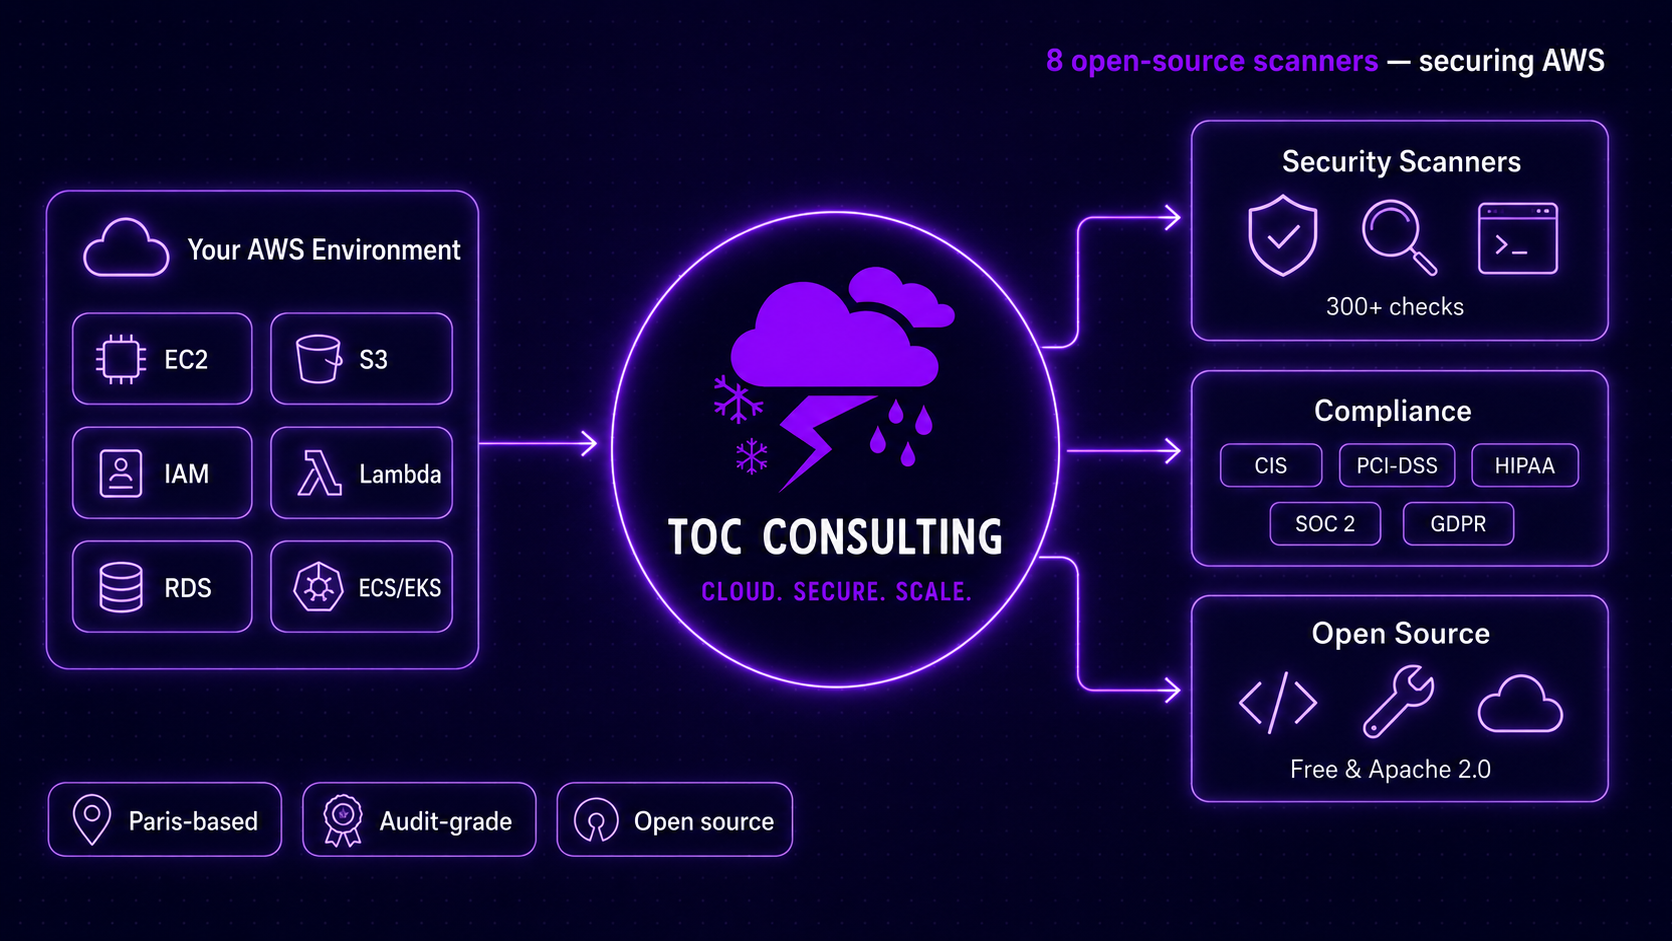
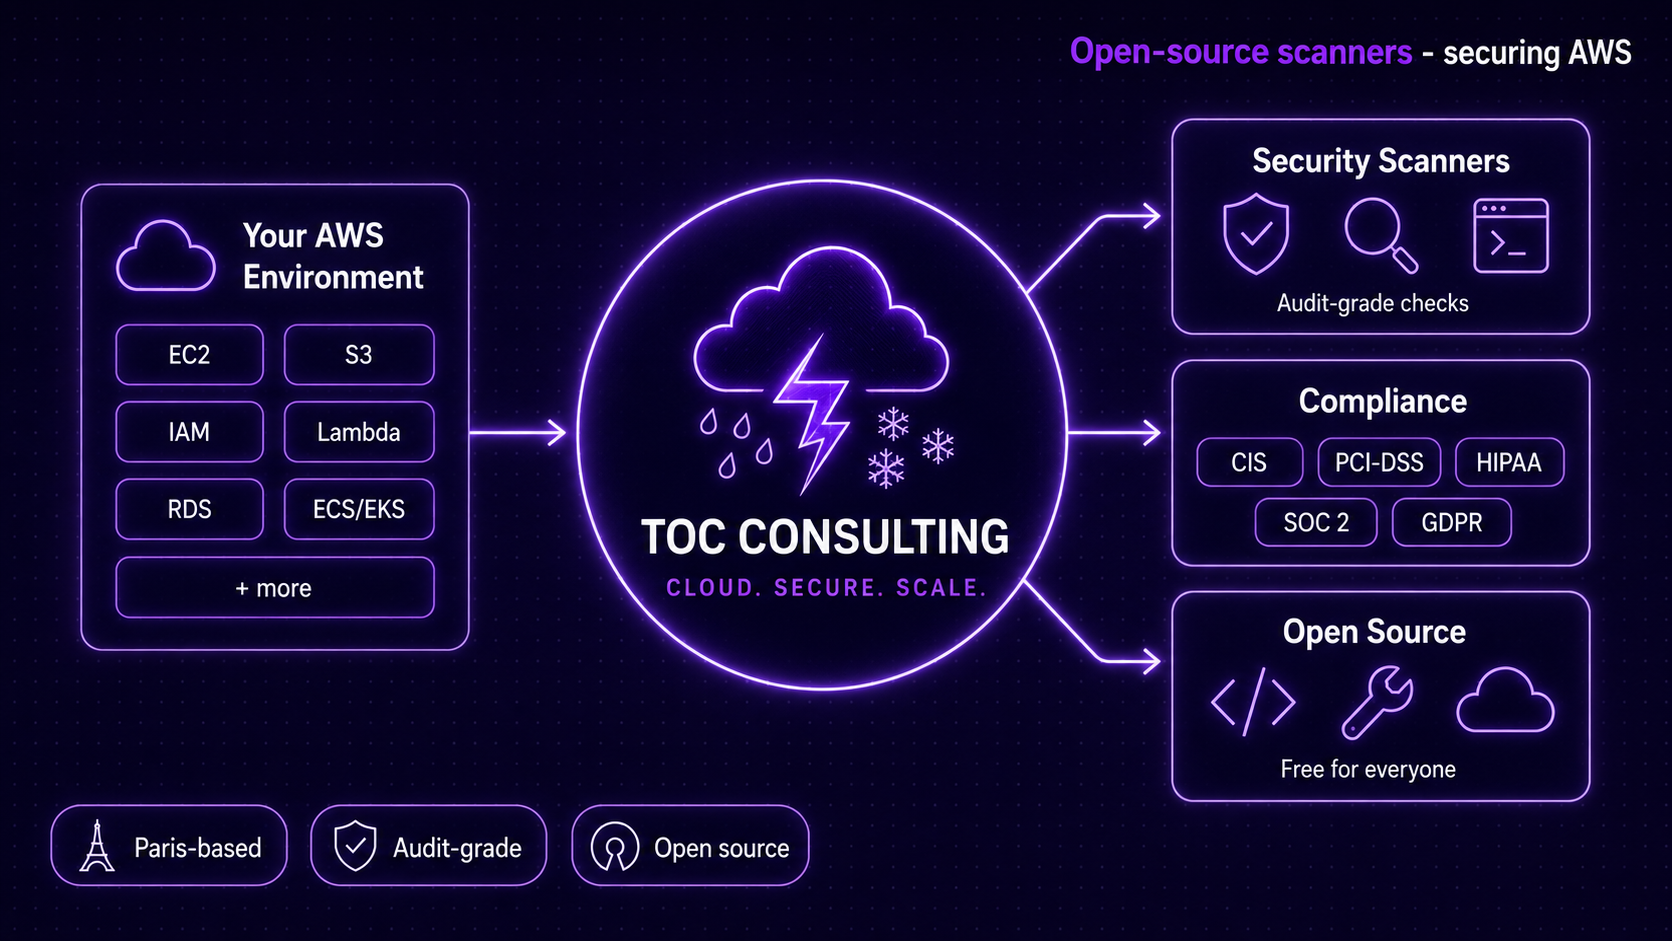
Rewrite org profile with accurate repo descriptions and no hardcoded counts

Changed region(s): [[0.0, 0.1233, 0.9641, 0.8629], [0.0311, 0.8321, 0.4976, 0.9554], [0.622, 0.0308, 0.9952, 0.0925]]

diff --git a/profile/README.md b/profile/README.md
@@ -9,7 +9,7 @@ We build free, open-source tools that help teams secure and optimize their AWS e
 
 <p align="center">
   <a href="https://tocconsulting.fr"><img src="https://img.shields.io/badge/Website-921CF6?style=for-the-badge&logo=google-chrome&logoColor=white" alt="Website" /></a>
-  <a href="#security"><img src="https://img.shields.io/badge/Security_Scanners-181717?style=for-the-badge&logo=github&logoColor=white" alt="Security scanners" /></a>
+  <a href="#aws-security-scanners"><img src="https://img.shields.io/badge/Security_Scanners-181717?style=for-the-badge&logo=github&logoColor=white" alt="Security scanners" /></a>
   <a href="https://github.com/localemu/localemu"><img src="https://img.shields.io/badge/LocalEmu-0894ab?style=for-the-badge&logoColor=white" alt="LocalEmu" /></a>
 </p>
 
@@ -21,57 +21,70 @@ We build free, open-source tools that help teams secure and optimize their AWS e
 </p>
 
 <p align="center">
-  <img src="https://raw.githubusercontent.com/TocConsulting/.github/main/profile/assets/tocconsulting-in-action.png" alt="TocConsulting in action: 8 open-source security scanners audit your AWS environment (EC2, S3, IAM, Lambda, RDS, ECS/EKS) with findings mapped to CIS, PCI-DSS, HIPAA, SOC 2, ISO and GDPR" width="100%" />
+  <img src="https://raw.githubusercontent.com/TocConsulting/.github/main/profile/assets/tocconsulting-in-action.png" alt="TocConsulting in action: open-source security scanners audit your AWS environment (EC2, S3, IAM, Lambda, RDS, ECS/EKS and more) with findings mapped to CIS, PCI DSS, HIPAA, SOC 2, ISO and GDPR" width="100%" />
 </p>
 
-**8 security scanners · 300+ checks · 10+ compliance frameworks · 100% open source.**
+**Open-source AWS security scanners, built from real client audits.**
 We scan what we secure for clients every day: EC2, S3, IAM, Lambda, RDS,
-ECS/EKS. Every finding is mapped to the frameworks auditors actually ask about.
+ECS and EKS. Every finding is mapped to the compliance frameworks auditors
+actually ask about: CIS, PCI DSS, HIPAA, SOC 2, ISO 27001, GDPR and NIST.
 
 ---
 
 ## Featured: LocalEmu
 
-We maintain [**LocalEmu**](https://github.com/localemu/localemu), a free, open-source AWS cloud emulator. It is a community fork of the LocalStack community edition (archived in March 2026), continued under Apache 2.0 with no account and no auth token required. Run 132 AWS services locally and point your existing AWS CLI, boto3, Terraform, or CDK at `localhost:4566`.
+We maintain [**LocalEmu**](https://github.com/localemu/localemu), a free, open-source AWS cloud emulator, continued from the archived LocalStack community edition under the Apache 2.0 license. No account, no auth token, no sign-up. Point your existing AWS CLI, boto3, Terraform, or CDK at `localhost:4566` and build against AWS APIs from your laptop. Where it counts, the behavior is real, not stubbed: Lambda runs your code in the official AWS runtime images, EC2 instances are real containers on a real VPC, and RDS is a real PostgreSQL or MySQL you can connect to.
 
 ---
 
-## Security
+## AWS Security Scanners
+
+Each scanner is a Python CLI available on PyPI and Docker Hub, with multi-threaded scanning, JSON, CSV and interactive HTML reports, and per-framework compliance mapping (CIS, AWS FSBP, PCI DSS, HIPAA, SOC 2, ISO 27001/27017/27018, GDPR, NIST 800-53).
+
+| Project | What it scans |
+|---|---|
+| [s3-security-scanner](https://github.com/TocConsulting/s3-security-scanner) | S3 buckets: public access, weak bucket policies, missing encryption, cross-account replication exfiltration, CORS, and subdomain takeover risks |
+| [ec2-security-scanner](https://github.com/TocConsulting/ec2-security-scanner) | EC2 and its network: IMDSv2, security groups, EBS encryption, public AMIs and snapshots, patch compliance, and UserData secret detection |
+| [iam-security-scanner](https://github.com/TocConsulting/iam-security-scanner) | IAM: privilege escalation paths, confused-deputy trust, MFA enforcement, key rotation, password policy, and least-privilege analysis |
+| [rds-security-scanner](https://github.com/TocConsulting/rds-security-scanner) | RDS and Aurora: storage encryption, TLS enforcement, public access, IAM auth, backups, deletion protection, and Multi-AZ posture |
+| [ecs-eks-security-scanner](https://github.com/TocConsulting/ecs-eks-security-scanner) | ECS and EKS: privileged containers, secrets in task definitions, public endpoints, control-plane logging, IAM role separation, and ECR hygiene |
+| [lambda-security-scanner](https://github.com/TocConsulting/lambda-security-scanner) | Lambda: deprecated runtimes, secrets in environment variables, public function URLs, permissive execution roles, and code signing |
+
+## Security Tools & Research
 
 | Project | Description |
 |---|---|
-| [aws-security-cards](https://github.com/TocConsulting/aws-security-cards) | AWS service security reference cards: attack vectors, misconfigurations, enumeration commands, privilege escalation, persistence techniques, and defense recommendations (MD/HTML/PDF) |
-| [s3-security-scanner](https://github.com/TocConsulting/s3-security-scanner) | AWS S3 security scanner with CIS, PCI-DSS, HIPAA, SOC 2, ISO & GDPR compliance mapping |
-| [ec2-security-scanner](https://github.com/TocConsulting/ec2-security-scanner) | AWS EC2 security scanner with 46 checks across 8 categories and FSBP, CIS, PCI-DSS, HIPAA, SOC 2, ISO & GDPR compliance mapping |
-| [iam-security-scanner](https://github.com/TocConsulting/iam-security-scanner) | AWS IAM security scanner: privilege escalation, confused-deputy trust, MFA, key rotation and least-privilege checks with compliance mapping for 10 frameworks |
-| [rds-security-scanner](https://github.com/TocConsulting/rds-security-scanner) | AWS RDS / Aurora security scanner: encryption, TLS enforcement, public access, IAM auth, backups and Multi-AZ checks with compliance mapping for 10 frameworks |
-| [ecs-eks-security-scanner](https://github.com/TocConsulting/ecs-eks-security-scanner) | AWS ECS / EKS container security scanner: privileged containers, secrets in task definitions, public endpoints, control-plane logging and IAM checks with compliance mapping for 11 frameworks |
-| [lambda-security-scanner](https://github.com/TocConsulting/lambda-security-scanner) | AWS Lambda security scanner with 19 checks across 5 categories, secret detection in env vars, and compliance mapping for 10 frameworks (CIS, PCI-DSS, HIPAA, SOC 2, ISO, NIST, GDPR) |
-| [iam-activity-tracker](https://github.com/TocConsulting/iam-activity-tracker) | Serverless AWS IAM activity monitoring and auditing across all regions with real-time alerts |
-| [litellm-supply-chain-attack-analysis](https://github.com/TocConsulting/litellm-supply-chain-attack-analysis) | Full analysis of the March 2026 LiteLLM supply chain attack: compromised packages, decoded 3-stage malware, an EC2 detonation lab with mitmproxy captures, and complete IOCs |
+| [iam-activity-tracker](https://github.com/TocConsulting/iam-activity-tracker) | Serverless auditing of IAM, STS, and Console sign-in activity across all regions: real-time SNS security alerts, S3 + Athena analytics, and event retention beyond CloudTrail's 90-day window |
+| [aws-security-cards](https://github.com/TocConsulting/aws-security-cards) | Security reference cards for major AWS services: attack vectors, misconfigurations, enumeration commands, privilege escalation, persistence techniques, and defense recommendations, in Markdown, HTML and PDF |
+| [litellm-supply-chain-attack-analysis](https://github.com/TocConsulting/litellm-supply-chain-attack-analysis) | Malware analysis of the March 2026 LiteLLM supply chain attack: the real compromised packages detonated in an isolated EC2 lab, the decoded multi-stage payload, captured C2 traffic, and complete IOCs |
 
-## Infrastructure & DevOps
+## Cloud & Developer Tools
 
 | Project | Description |
 |---|---|
-| [localemu](https://github.com/localemu/localemu) | Free, open-source AWS cloud emulator. Run 132 AWS services locally, drop-in for the AWS CLI / boto3 / Terraform / CDK. Apache 2.0, no account, no token |
-| [awsmap](https://github.com/TocConsulting/awsmap) | Fast, comprehensive tool for mapping and inventorying AWS resources across all services and regions |
-| [aws-helper-scripts](https://github.com/TocConsulting/aws-helper-scripts) | AWS Security & Cost Optimization Toolkit |
-| [cryptex](https://github.com/TocConsulting/cryptex) | Enterprise CLI password generator with AWS Secrets Manager, HashiCorp Vault & OS Keychain integrations |
-| [chaos-on-aws](https://github.com/TocConsulting/chaos-on-aws) | Hands-on chaos engineering on AWS: 10 deployable Terraform labs using AWS FIS (EC2, Aurora, ECS/Fargate, Lambda, multi-Region DR) |
+| [localemu](https://github.com/localemu/localemu) | Free, open-source AWS cloud emulator. Run AWS services locally and point your existing AWS CLI, boto3, Terraform, or CDK at `localhost:4566`. Apache 2.0, no account, no token |
+| [awsmap](https://github.com/TocConsulting/awsmap) | Fast AWS resource mapping and inventory across all services and regions: SQLite-backed scan history, SQL and natural-language queries, drift detection, waste detection, and tag compliance |
+| [cryptex](https://github.com/TocConsulting/cryptex) | CLI password generator with AWS Secrets Manager, HashiCorp Vault, and OS keychain integrations, compliance templates (NIST, PCI DSS, OWASP), and TOTP support |
+| [aws-helper-scripts](https://github.com/TocConsulting/aws-helper-scripts) | Collection of standalone AWS security, cost-optimization, and inventory scripts, each with a deployable Lambda version |
+
+## Labs & Learning
+
+| Project | Description |
+|---|---|
+| [chaos-on-aws](https://github.com/TocConsulting/chaos-on-aws) | Companion code for our "Chaos Engineering on AWS" article series on the [TOC Consulting blog](https://tocconsulting.fr/blog): deployable Terraform labs using AWS Fault Injection Service, from single-instance failures to full AZ outages and multi-Region DR |
 
 ## Applications
 
 | Project | Description |
 |---|---|
-| [cognito-api](https://github.com/TocConsulting/cognito-api) | Secure user authentication API using AWS Cognito + Terraform |
-| [enclave](https://github.com/TocConsulting/enclave) | Serverless secure file sharing on AWS: direct-to-S3 uploads, expiring presigned share links, optional per-user KMS encryption. One-command Terraform, Python + React |
+| [cognito-api](https://github.com/TocConsulting/cognito-api) | Authentication and user management API built on AWS Cognito: MFA, passkeys, full user lifecycle, one-command Terraform deployment. Full documentation at [cognito-api.com](https://cognito-api.com) |
+| [enclave](https://github.com/TocConsulting/enclave) | Serverless secure file sharing on AWS: direct-to-S3 uploads, expiring presigned share links, optional per-user KMS encryption, React front end, one-command Terraform |
 
 ---
 
 ## What we do
 
-- **Security audits**: comprehensive AWS security assessments, IAM audits, and compliance mapping (CIS, PCI-DSS, HIPAA, SOC 2, ISO, GDPR)
+- **Security audits**: comprehensive AWS security assessments, IAM audits, and compliance mapping (CIS, PCI DSS, HIPAA, SOC 2, ISO 27001, GDPR)
 - **Cloud architecture**: secure-by-design, scalable AWS infrastructures and multi-account strategies
 - **Infrastructure as Code**: Terraform and CloudFormation automation
 - **DevOps & CI/CD**: pipeline design, containerization, and deployment automation
